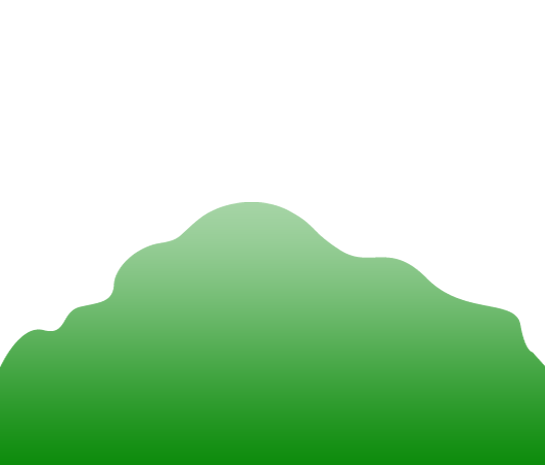
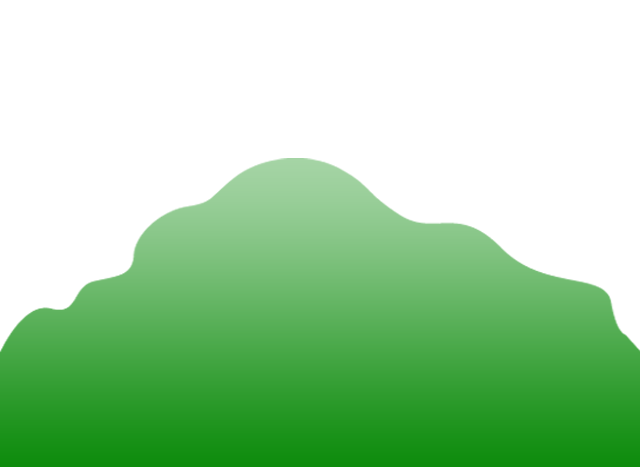
1. change the labeling for the adherence slider so that at the top it says 'good adherence' and at the bottom it says 'no adherence'
2. when the user lands on this game, it should start with the woman in the middle and the water half way up - i.e. half way to good adherence.

3. Resized and then cropped the background images in Photoshop. The letterbox format for the game was painful. I do not think any quality was lost.

Changed region(s): [[0.0, 0.3312, 1.0, 0.8129]]

diff --git a/island_game/media/js/islandview.js b/island_game/media/js/islandview.js
@@ -309,13 +309,13 @@
             this.collection.bind('add', this.addGameElement);
             
             this.collection.add(new GameElement({ name: "figure1", starting_value: 10, gender: options.gender }));
-            this.collection.add(new GameElement({ name: "figure2", starting_value: 10, horizontal_range: 250, vertical_range: 90, gender: options.gender, visible: false }));
+            this.collection.add(new GameElement({ name: "figure2", starting_value: 10, horizontal_range: 260, vertical_range: 100, gender: options.gender, visible: false }));
             this.collection.add(new GameElement({ name: "island", vertical_range: 225, starting_value: 10 }));
             this.collection.add(new GameElement({ name: "water" }));
             this.collection.add(new GameElement({ name: "infection", draggable: true }));
             this.collection.add(new GameElement({ name: "viral_load", draggable: true }));
             this.collection.add(new GameElement({ name: "cd4_count", starting_value: 10, draggable: true }));
-            this.collection.add(new GameElement({ name: "adherence", starting_value: 10, draggable: true, visible: false  }));
+            this.collection.add(new GameElement({ name: "adherence", starting_value: 5, draggable: true, visible: false  }));
             
             this.render();
         },

diff --git a/island_game/media/css/island.css b/island_game/media/css/island.css
@@ -1,11 +1,5 @@
-#gamebox {
-	padding-left: 50px; /*center the game*/
-}
-
-
-
 .island-container {
-    height: 465px;
+    height: 467px;
     width: 100%; 
     background-image: url(/site_media/island_game/images/background.jpg);
     background-repeat: no-repeat;
@@ -20,7 +14,7 @@
     position: absolute;
     top: 0px;
     left: 0px;
-    width: 545px;
+    width:  640px;
 }
 
 #water {
@@ -28,7 +22,7 @@
     position: absolute;
     left: 0px;
     top: 75px;
-    width: 545px;
+    width: 640px;
 }
 
 .figure {
@@ -45,7 +39,7 @@
 
 #figure2 {
     left: 150px;
-    top: 25px;
+    top: 70px;
 }
 
 .slider {
@@ -101,11 +95,17 @@
 
 #adherence_slider,
 #adherence {
-    left: 500px;
+    left: 570px;
 }
 
-#adherence_label {
-    left: 482px;    
+#good_adherence_label,
+#no_adherence_label {
+    left: 550px;
+    width: 50px;    
+}
+
+#no_adherence_label {
+    top: 150px;
 }
 
 #island_view_navigation {

diff --git a/island_game/templates/island_game/island.html b/island_game/templates/island_game/island.html
@@ -48,9 +48,10 @@
         </div>
 
         <div>
-            <div id="adherence_label" class="slider_label adherence"><br />adherence</div>
+            <div id="good_adherence_label" class="slider_label adherence">good</br>adherence</div>
             <img src="/site_media/island_game/images/slider_bar.png" id="adherence_slider" class="slider adherence" />
             <img src="/site_media/island_game/images/slider_handle.png" id="adherence" class="slider_thumb adherence" />
+            <div id="no_adherence_label" class="slider_label adherence">no</br>adherence</div>
         </div>
         
         <div id="island_view_navigation">
